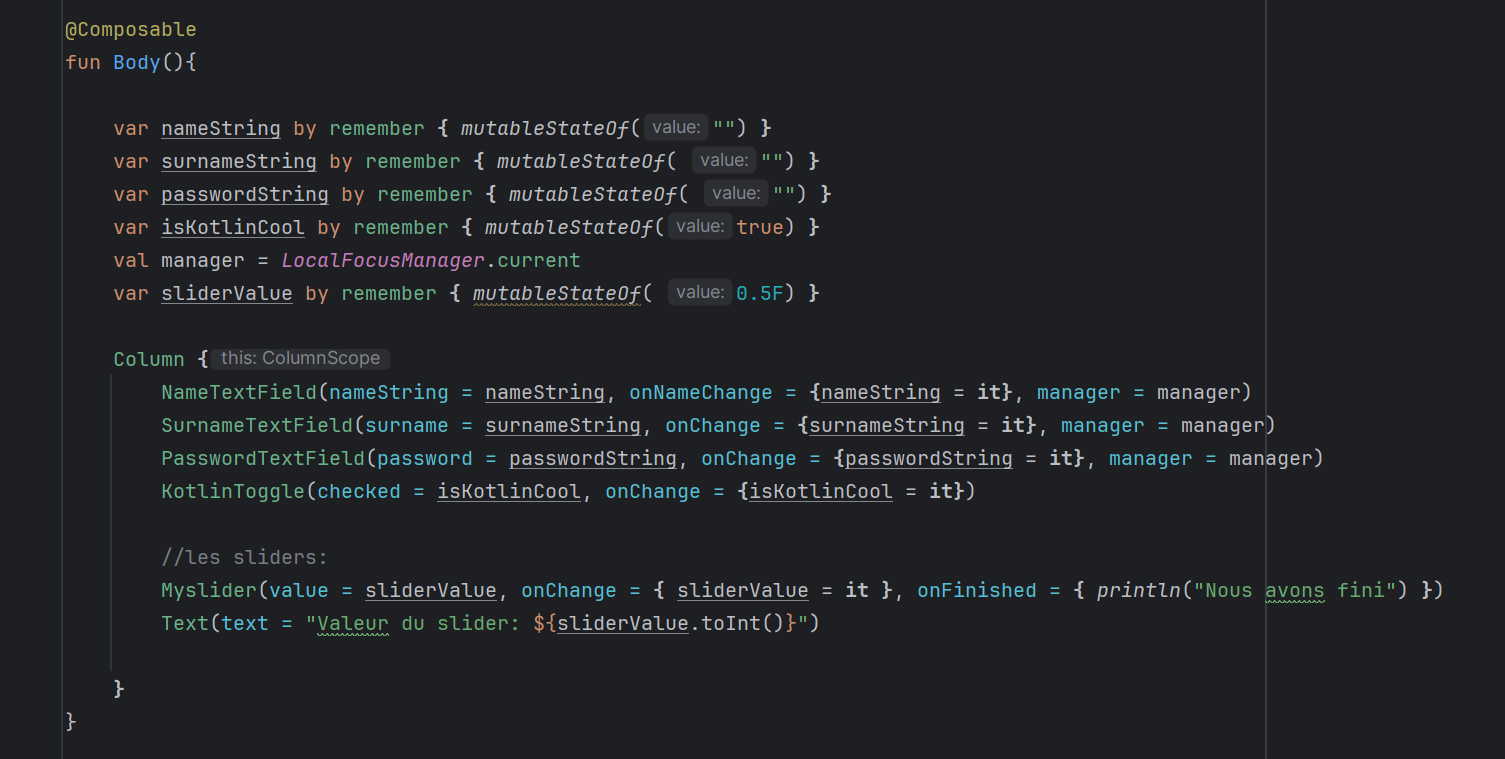
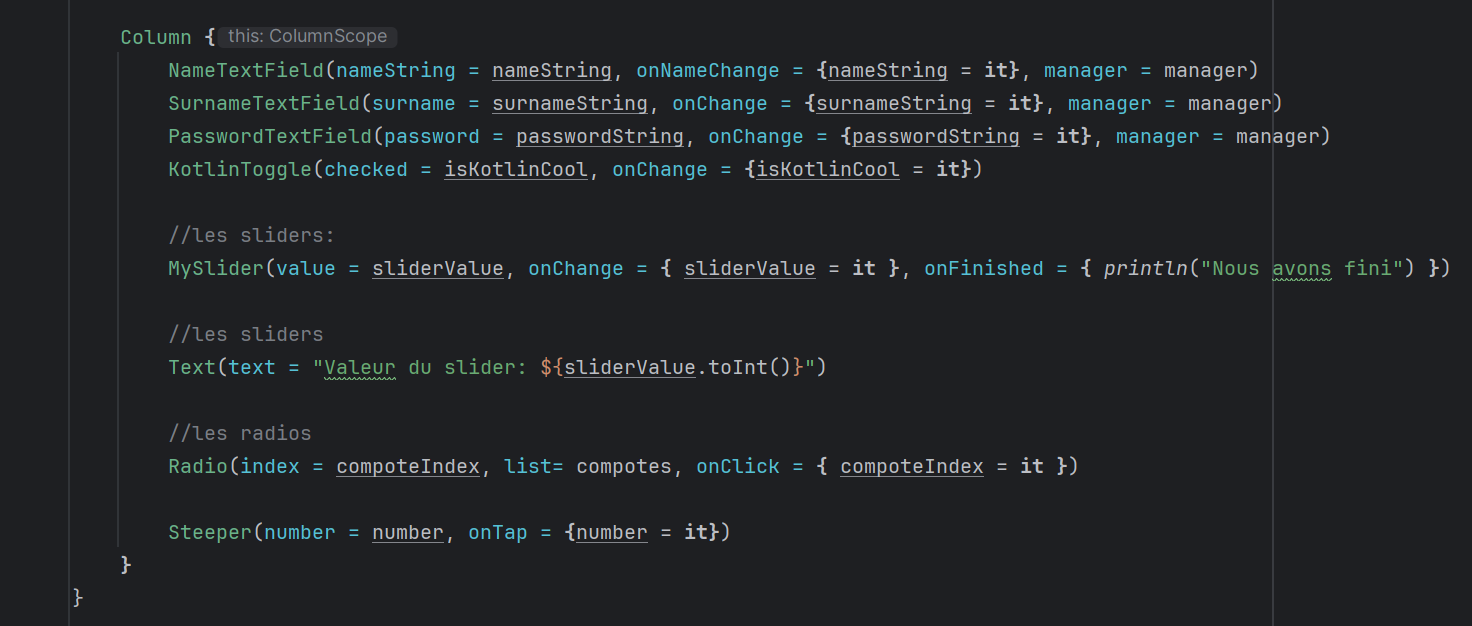
mise a jour

diff --git a/lesinteractifs/README.md b/lesinteractifs/README.md
@@ -8,6 +8,7 @@
 <div align="center">
         <h2> Le parents ! </h2><br><br>
         <p>Crée un composable en tête de fichier pour bien le distinguer des autres composables et appeler sa fonction par la suite. Ce composant, que j'appelle enfant, n'est en réalité qu'un composant avec un nom de fonction. Pour résumer, il s'agit d'un composant dans une liste de composants formant un corps.</p>
+        <img src="./variables.png"><br><br>
         <img src="./parent.png"><br><br>
 </div>
 
@@ -76,6 +77,13 @@
 <div align="center">
         <h2> Les radios button ! </h2><br><br>
         <img src="./range.png">
+</div>
+
+<br>
+
+<div align="center">
+        <h2> Le button d'incrémentation ! </h2><br><br>
+        <img src="./incremente.png">
 </div>
 
 <br>
